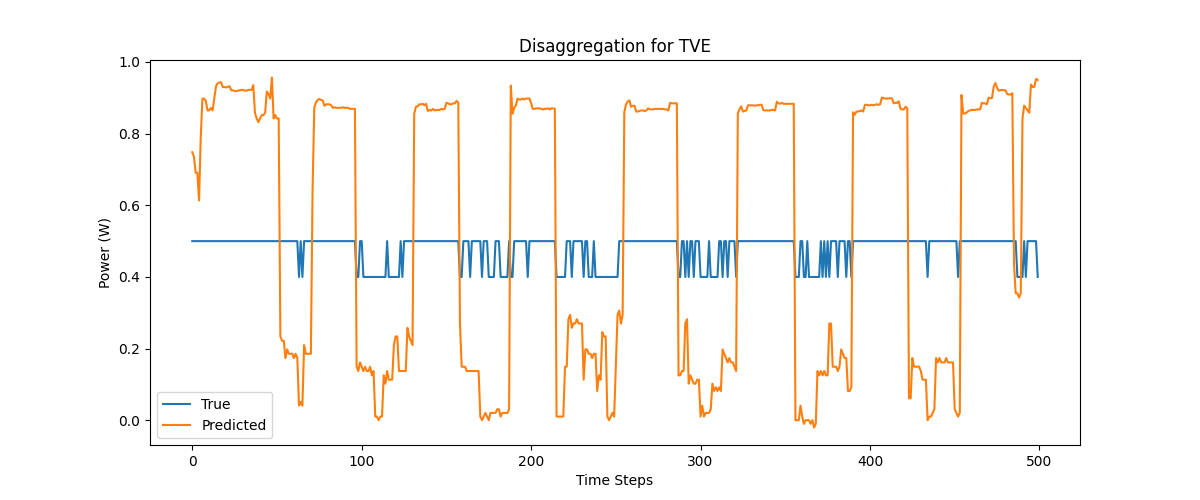
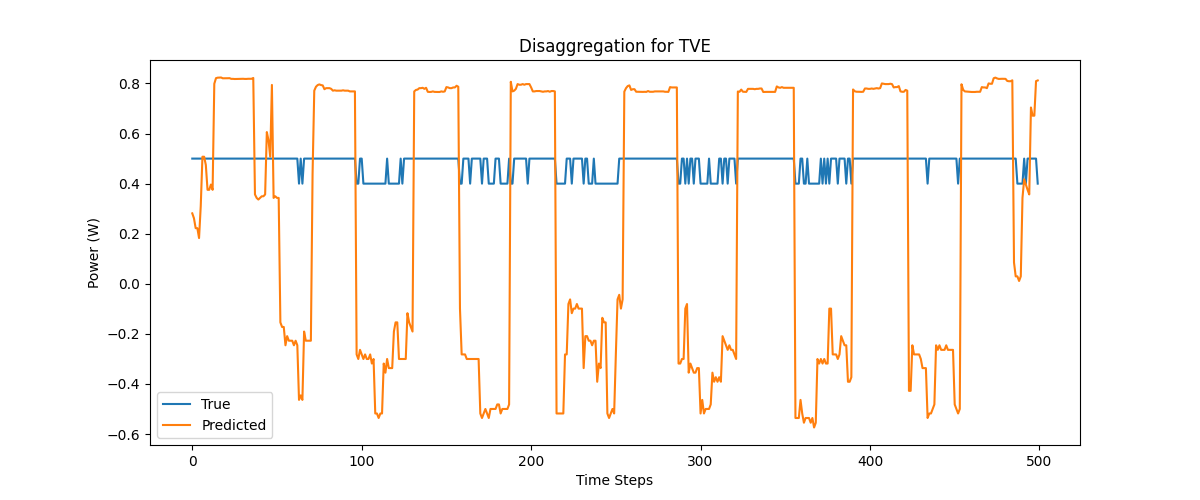
Pre-pre-final commit

diff --git a/ESP_Simulation/esp.cpp b/ESP_Simulation/esp.cpp
@@ -1,0 +1,74 @@
+#include <WiFi.h>
+#include <PubSubClient.h>
+
+// WiFi
+const char* ssid = "YOUR_SSID";
+const char* pass = "YOUR_PASS";
+
+// MQTT
+const char* mqtt_server = "192.168.1.50"; // your broker
+WiFiClient espClient;
+PubSubClient client(espClient);
+
+// Serial for PZEM (Hardware Serial2)
+HardwareSerial PZEMSerial(2);
+const int RX_PIN = 16; // PZEM TX -> ESP32 RX2
+const int TX_PIN = 17; // PZEM RX <- ESP32 TX2
+
+void setupWifi(){
+  WiFi.begin(ssid, pass);
+  while (WiFi.status() != WL_CONNECTED) {
+    delay(200);
+  }
+}
+
+void reconnect(){
+  while(!client.connected()){
+    if(client.connect("esp32_pzem_demo")) {
+      // subscribe if needed (for simulation feed)
+      client.subscribe("sim/pzem");
+    } else {
+      delay(2000);
+    }
+  }
+}
+
+void callback(char* topic, byte* payload, unsigned int len){
+  // optionally receive simulated readings here
+}
+
+void setup() {
+  Serial.begin(115200);
+  PZEMSerial.begin(9600, SERIAL_8N1, RX_PIN, TX_PIN); // typical PZEM baud
+  setupWifi();
+  client.setServer(mqtt_server, 1883);
+  client.setCallback(callback);
+}
+
+void loop() {
+  if (!client.connected()) reconnect();
+  client.loop();
+
+  // Example: read from PZEM (pseudo). Replace with actual library calls:
+  // float V = pzem.voltage();
+  // float I = pzem.current();
+  // float P = pzem.power();
+  // float S = V * I;
+  // float Q = sqrt(max(0.0, S*S - P*P));
+
+  // For demo, here we do a fake read that you will replace:
+  float V = 230.0 + (random(-50,50)/100.0);
+  float I = 2.0 + (random(-20,20)/100.0);
+  float P = V * I * 0.95; // fake PF = 0.95
+  float S = V * I;
+  float Q = sqrt(max(0.0, S*S - P*P));
+
+  // publish JSON
+  char payload[200];
+  snprintf(payload, sizeof(payload),
+    "{\"V\":%.2f, \"I\":%.3f, \"P\":%.2f, \"Q\":%.2f, \"S\":%.2f}",
+    V, I, P, Q, S);
+
+  client.publish("factory/pzem1", payload, true); // retained true to show state
+  delay(1000);
+}

diff --git a/Classification/labelling.py b/Classification/labelling.py
@@ -1,0 +1,35 @@
+import pandas as pd
+import os
+
+# 1. Load your original CSV
+file_paths = ['Electricity_I.csv','Electricity_P.csv','Electricity_Q.csv','Electricity_S.csv'] 
+file_paths = ['data/'+ fp for fp in file_paths] 
+for file_path in file_paths:
+    df = pd.read_csv(file_path)
+
+    # 2. Identify all machine columns (every column except timestamp)
+    timestamp_col = 'UNIX_TS'
+    machine_columns = [col for col in df.columns if col != timestamp_col]
+
+    # 3. Build combined dataframe of (Timestamp, Machine, Overconsumption)
+    records = []
+    for machine_col in machine_columns:
+        # Calculate a simple threshold for overconsumption: mean + 2*std
+        threshold = df[machine_col].mean() + 2 * df[machine_col].std()
+
+        # Flag rows above threshold
+        overconsumption = (df[machine_col] > threshold).astype(int)
+
+        # Append rows for each timestamp
+        for ts, oc in zip(df[timestamp_col], overconsumption):
+            records.append((ts, machine_col, oc))
+
+    # 4. Create new dataframe
+    all_df = pd.DataFrame(records, columns=['Timestamp', 'Machine', 'Overconsumption'])
+
+    # 5. Save to CSV
+    output_path_all = 'C:/Users/Admin/Desktop/IEEE/IASTAM5.0/'+file_path[:-4]+'_Overconsumption_AllMachines.csv'
+    all_df.to_csv(output_path_all, index=False)
+
+    print(f"File saved as {output_path_all}")
+    print(all_df.head())

diff --git a/ESP_Simulation/simulator.py b/ESP_Simulation/simulator.py
@@ -1,0 +1,42 @@
+# simulator.py
+import paho.mqtt.client as mqtt
+import time, math, json, random
+
+MQTT_BROKER = "localhost"
+TOPIC = "sim/pzem"
+
+client = mqtt.Client()
+client.connect(MQTT_BROKER, 1883, 60)
+
+t = 0.0
+freq = 50.0  # mains frequency for realism
+while True:
+    # Base sinusoidal RMS voltage & current plus small fluctuations
+    Vrms = 230 + random.gauss(0, 0.8)  # small voltage noise
+    Irms = 2.0 + 0.2*math.sin(t/10.0) + random.gauss(0, 0.02)
+    # Power factor varying slowly between 0.85 and 0.99
+    pf = 0.9 + 0.09*math.sin(t/60.0) + random.gauss(0, 0.005)
+    P = Vrms * Irms * pf
+    S = Vrms * Irms
+    Q = math.sqrt(max(0.0, S*S - P*P))
+
+    # Occasional transient or appliance start
+    if random.random() < 0.02:
+        # transient spike
+        Irms += random.uniform(3.0, 6.0)
+        P = Vrms * Irms * pf
+        S = Vrms * Irms
+        Q = math.sqrt(max(0.0, S*S - P*P))
+
+    payload = {
+        "timestamp": int(time.time()*1000),
+        "V": round(Vrms, 2),
+        "I": round(Irms, 3),
+        "P": round(P, 2),
+        "Q": round(Q, 2),
+        "S": round(S, 2),
+        "pf": round(pf, 3)
+    }
+    client.publish(TOPIC, json.dumps(payload), qos=0, retain=False)
+    t += 1
+    time.sleep(1)  # publish every second

diff --git a/src/model.py b/src/model.py
@@ -4,8 +4,8 @@ from keras import layers, models
 def build_lstm_model(seq_len=30, features=1):
     model = models.Sequential([
         layers.Input(shape=(seq_len, features)),
-        layers.LSTM(64, return_sequences=False),
-        layers.Dense(32, activation="relu"),
+        layers.LSTM(128, return_sequences=False),
+        layers.Dense(64, activation="relu"),
         layers.Dense(1, activation="linear")
     ])
     model.compile(optimizer="adam", loss="mse", metrics=["mae"])

diff --git a/src/train.py b/src/train.py
@@ -11,7 +11,7 @@ def train(target_appliance="TVE"):
     X, y, scaler_X, scaler_y = preprocess_data(df, target_appliance)
     
     # Windowed data
-    Xw, yw = create_windows(X, y, seq_len=60)
+    Xw, yw = create_windows(X, y, seq_len=30)
     
     model = build_lstm_model(seq_len=30, features=1)
     model.fit(Xw, yw, epochs=10, batch_size=32, validation_split=0.2)
